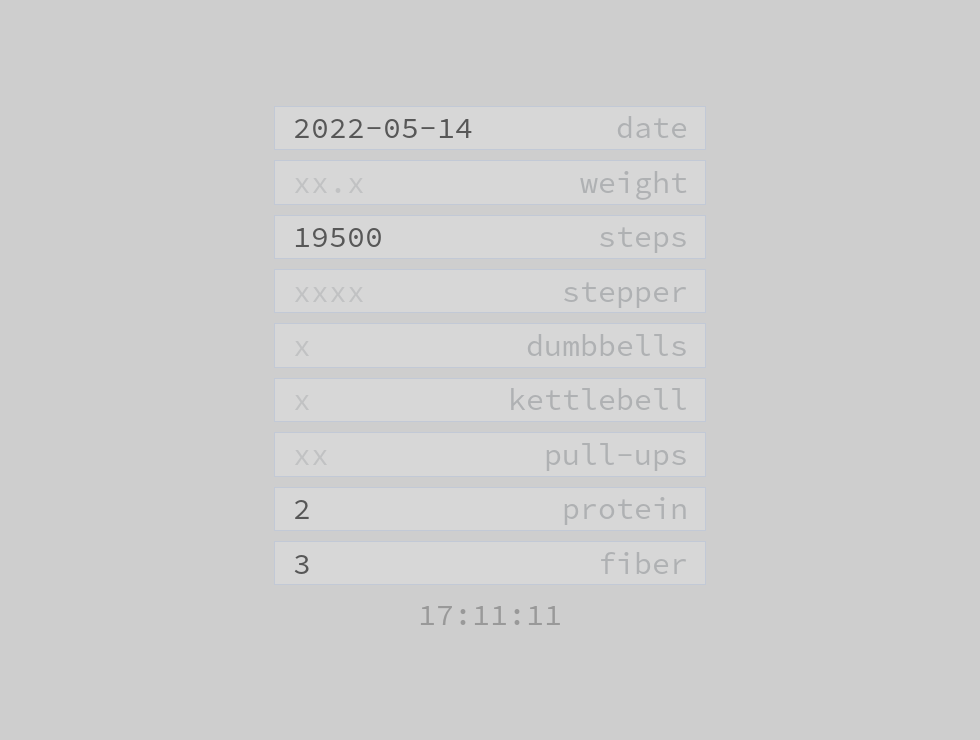
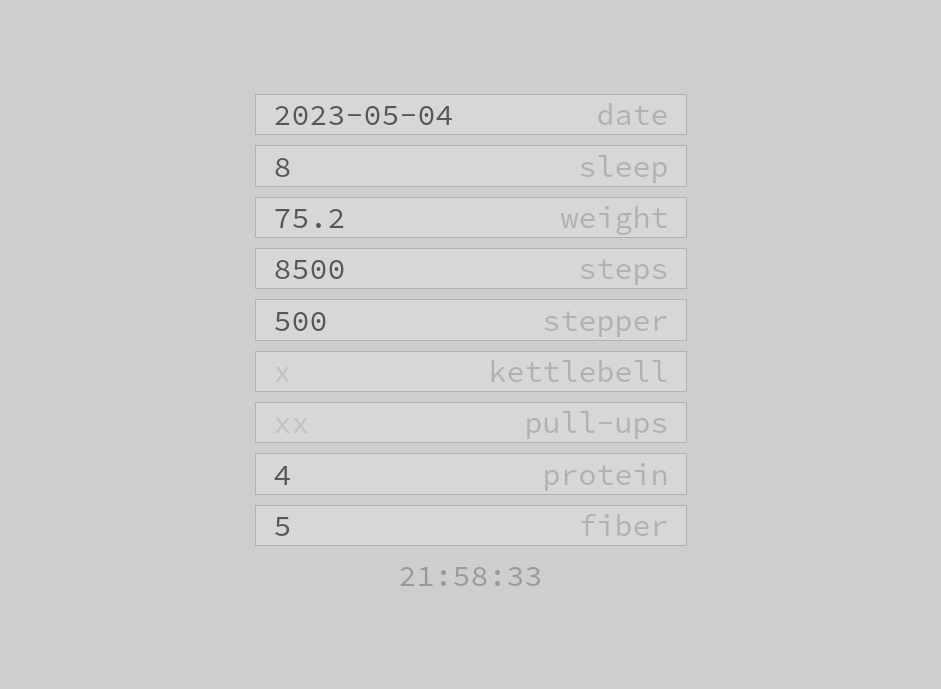
remove dumbbell_sets from reports

diff --git a/tests/mocks/reports.js b/tests/mocks/reports.js
@@ -8,7 +8,6 @@ export default [
         'data': [
           {
             'date': '2022-08-25',
-            'dumbbell_sets': null,
             'fiber_meals': 5,
             'id': 1567,
             'kettlebell_sets': null,
@@ -22,7 +21,6 @@ export default [
           },
           {
             'date': '2022-08-24',
-            'dumbbell_sets': 6,
             'fiber_meals': 5,
             'id': 1550,
             'kettlebell_sets': null,
@@ -36,7 +34,6 @@ export default [
           },
           {
             'date': '2022-08-23',
-            'dumbbell_sets': null,
             'fiber_meals': 5,
             'id': 1541,
             'kettlebell_sets': null,
@@ -50,7 +47,6 @@ export default [
           },
           {
             'date': '2022-08-22',
-            'dumbbell_sets': 1,
             'fiber_meals': 5,
             'id': 1512,
             'kettlebell_sets': 4,
@@ -64,7 +60,6 @@ export default [
           },
           {
             'date': '2022-08-21',
-            'dumbbell_sets': null,
             'fiber_meals': 5,
             'id': 1502,
             'kettlebell_sets': null,
@@ -78,7 +73,6 @@ export default [
           },
           {
             'date': '2022-08-20',
-            'dumbbell_sets': null,
             'fiber_meals': 5,
             'id': 1486,
             'kettlebell_sets': null,
@@ -92,7 +86,6 @@ export default [
           },
           {
             'date': '2022-08-19',
-            'dumbbell_sets': null,
             'fiber_meals': 4,
             'id': 1469,
             'kettlebell_sets': 3,
@@ -106,7 +99,6 @@ export default [
           },
           {
             'date': '2022-08-18',
-            'dumbbell_sets': null,
             'fiber_meals': 4,
             'id': 1447,
             'kettlebell_sets': null,
@@ -120,7 +112,6 @@ export default [
           },
           {
             'date': '2022-08-17',
-            'dumbbell_sets': 6,
             'fiber_meals': 3,
             'id': 1427,
             'kettlebell_sets': 1,
@@ -134,7 +125,6 @@ export default [
           },
           {
             'date': '2022-08-16',
-            'dumbbell_sets': null,
             'fiber_meals': 5,
             'id': 1411,
             'kettlebell_sets': null,
@@ -148,7 +138,6 @@ export default [
           },
           {
             'date': '2022-08-15',
-            'dumbbell_sets': null,
             'fiber_meals': 4,
             'id': 1391,
             'kettlebell_sets': 3,
@@ -162,7 +151,6 @@ export default [
           },
           {
             'date': '2022-08-14',
-            'dumbbell_sets': null,
             'fiber_meals': 3,
             'id': 1383,
             'kettlebell_sets': null,
@@ -176,7 +164,6 @@ export default [
           },
           {
             'date': '2022-08-13',
-            'dumbbell_sets': null,
             'fiber_meals': 3,
             'id': 1373,
             'kettlebell_sets': null,
@@ -190,7 +177,6 @@ export default [
           },
           {
             'date': '2022-08-12',
-            'dumbbell_sets': null,
             'fiber_meals': 5,
             'id': 1350,
             'kettlebell_sets': 2,

diff --git a/src/views/ReportsList.vue b/src/views/ReportsList.vue
@@ -7,7 +7,6 @@ table.reports-list
       td.reports-list__head sl
       td.reports-list__head steps
       td.reports-list__head sr
-      td.reports-list__head db
       td.reports-list__head kb
       td.reports-list__head pu
       td.reports-list__head p
@@ -18,7 +17,6 @@ table.reports-list
       ReportsListItem(:value="report.sleep")
       ReportsListItem(:value="report.steps")
       ReportsListItem(:value="report.stepper")
-      ReportsListItem(:value="report.dumbbell_sets")
       ReportsListItem(:value="report.kettlebell_sets")
       ReportsListItem(:value="report.pullups")
       ReportsListItem(:value="report.protein_meals")

diff --git a/src/views/ReportForm.vue b/src/views/ReportForm.vue
@@ -35,14 +35,6 @@
   )
 
   ReportInput(
-    :value="report.dumbbell_sets"
-    :label="'dumbbells'"
-    :field="'dumbbell_sets'"
-    :placeholder="'x'"
-    @input="saveReport"
-  )
-
-  ReportInput(
     :value="report.kettlebell_sets"
     :label="'kettlebell'"
     :field="'kettlebell_sets'"
@@ -89,7 +81,6 @@ const report = reactive({
   weight: null,
   steps: null,
   stepper: null,
-  dumbbell_sets: null,
   pullups: null,
   protein_meals: null,
   fiber_meals: null,

diff --git a/src/views/DevPalette.vue b/src/views/DevPalette.vue
@@ -19,7 +19,7 @@
 
 .dev-palette__color
   height: 10vh
-  width: 48vh
+  width: 40ch
 
 .dev-palette__color-1
   background: var(--color-1)

diff --git a/doc/report-form.md b/doc/report-form.md
@@ -4,7 +4,6 @@
 * weight in kg
 * steps
 * spepper steps
-* dumbbells sets
 * kettlebell sets
 * reps of pull-ups
 * protein meals
